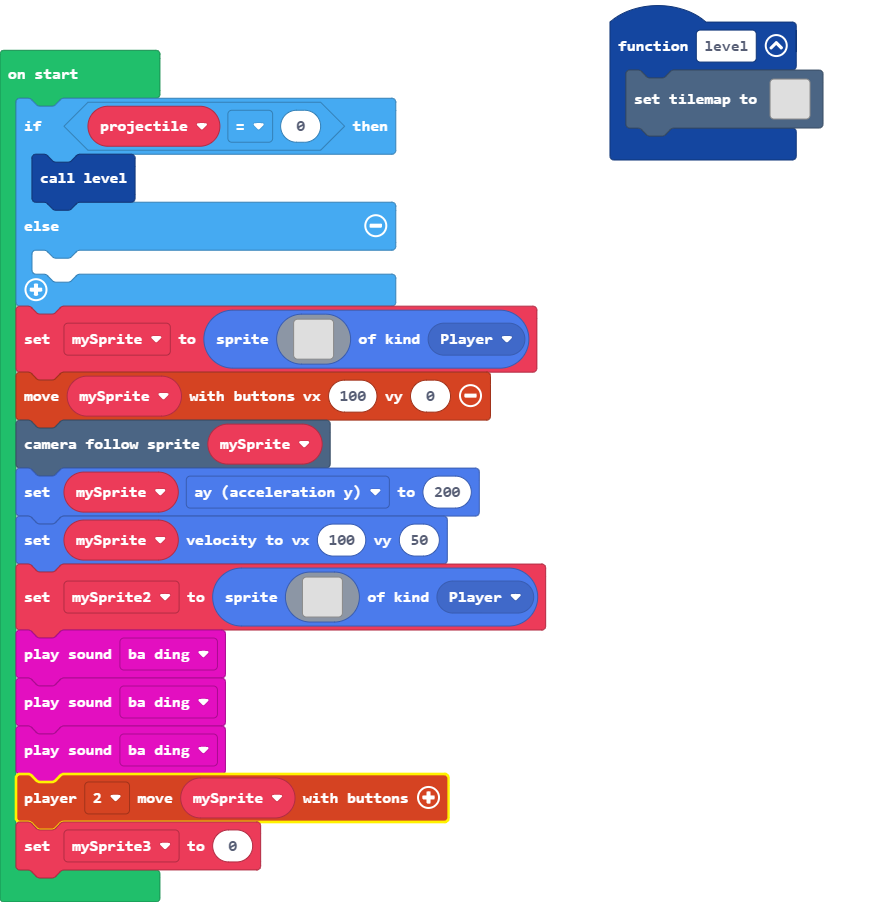
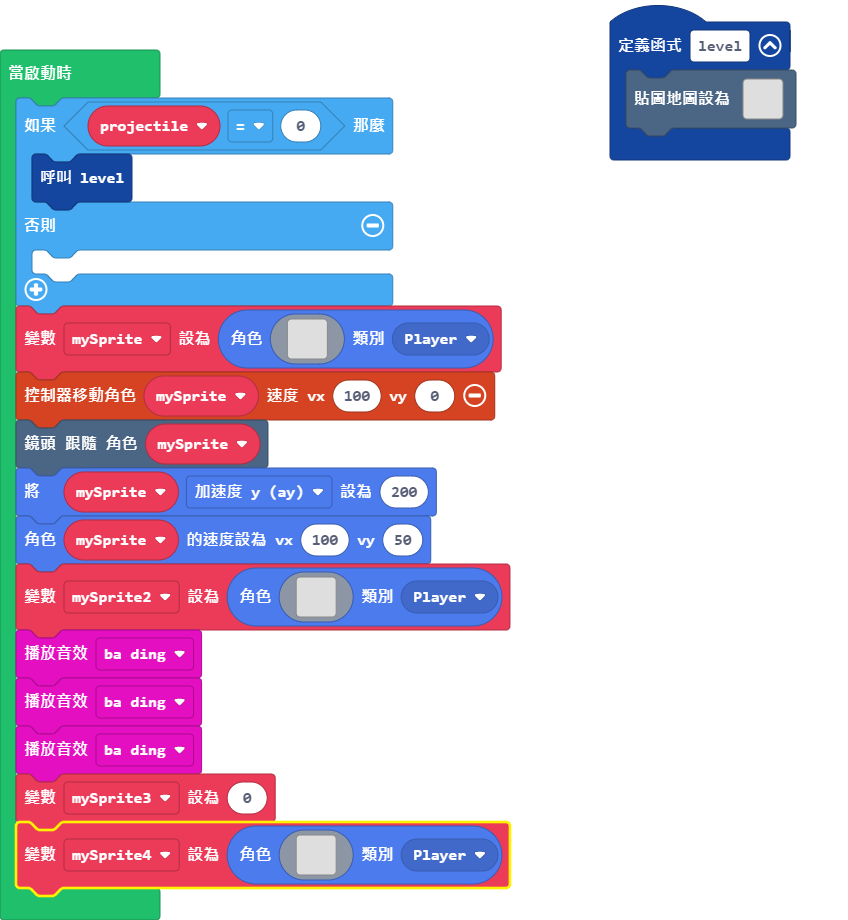
更新 main.blocks, main.ts, tilemap.g.ts

Changed region(s): [[0.0, 0.031, 0.6439, 1.0], [0.6745, 0.0, 0.9505, 0.1863]]

diff --git a/main.ts b/main.ts
@@ -52,3 +52,21 @@ music.baDing.play()
 music.baDing.play()
 controller.player2.moveSprite(mySprite)
 let mySprite3 = 0
+let mySprite4 = sprites.create(img`
+    . . . . . . . . . . . . . . . . 
+    . . . . . . . . . . . . . . . . 
+    . . . . . . . . . . . . . . . . 
+    . . . . . . . . . . . . . . . . 
+    . . . . . . . . . . . . . . . . 
+    . . . . . . . . . . . . . . . . 
+    . . . . . . . . . . . . . . . . 
+    . . . . . . . . . . . . . . . . 
+    . . . . . . . . . . . . . . . . 
+    . . . . . . . . . . . . . . . . 
+    . . . . . . . . . . . . . . . . 
+    . . . . . . . . . . . . . . . . 
+    . . . . . . . . . . . . . . . . 
+    . . . . . . . . . . . . . . . . 
+    . . . . . . . . . . . . . . . . 
+    . . . . . . . . . . . . . . . . 
+    `, SpriteKind.Player)

diff --git a/tilemap.g.ts b/tilemap.g.ts
@@ -1,4 +1,4 @@
-// Auto-generated code. Do not edit.
+// 自動生成的代碼。請勿編輯。
 namespace myTiles {
     //% fixedInstance jres blockIdentity=images._tile
     export const transparency16 = image.ofBuffer(hex``);
@@ -49,4 +49,4 @@ namespace myTiles {
     })
 
 }
-// Auto-generated code. Do not edit.
+// 自動生成的代碼。請勿編輯。
